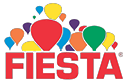
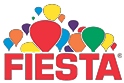
Balloon Fiesta Bot

Changed region(s): [[0.0242, 0.0247, 0.9919, 0.9877]]

diff --git a/public/bot/ticketspice_balloonfiesta_bot.html b/public/bot/ticketspice_balloonfiesta_bot.html
@@ -51,7 +51,7 @@
             el.setAttribute('url', 'bot-service.enegel.ai');
             el.setAttribute('org-id', 'webconnex');
             el.setAttribute('bot-id', 'eoceeblqz2');
-            el.setAttribute('logo-svg', '<?xml version="1.0"?><svg version="1.0" xmlns="http://www.w3.org/2000/svg" width="30" height="30" viewBox="0 0 125.000000 128.000000" preserveAspectRatio="xMidYMid meet"><g transform="translate(0.000000,128.000000) scale(0.100000,-0.100000)" fill="#0C6B67" stroke="none"><path d="M938 1233 c-9 -10 -20 -31 -23 -46 -7 -28 -7 -28 29 -22 24 5 36 3 36 -4 0 -6 -7 -11 -15 -11 -25 0 -63 -29 -86 -67 -12 -19 -36 -95 -54 -169 -64 -258 -158 -364 -326 -364 -33 0 -80 8 -107 18 -97 37 -207 130 -259 220 l-27 46 -12 -39 c-6 -22 -14 -60 -18 -85 -6 -45 -6 -46 31 -68 l38 -22 -39 0 c-31 0 -37 -3 -32 -16 3 -9 6 -22 6 -29 0 -20 59 -85 89 -98 26 -10 26 -11 4 -14 -27 -5 -28 -12 -10 -56 14 -33 87 -106 110 -109 6 0 -8 -4 -33 -7 l-45 -6 52 -33 c102 -65 143 -76 297 -78 l139 -1 18 -48 c10 -27 17 -50 16 -51 -2 -2 -14 -7 -27 -13 -21 -8 -14 -10 35 -9 53 0 57 1 33 11 -21 8 -29 21 -41 70 -15 58 -15 59 6 65 12 3 60 25 107 48 149 75 219 165 242 310 15 96 -1 215 -42 320 -37 91 -37 105 -4 141 20 22 24 23 19 8 -22 -60 -12 -101 22 -88 12 5 14 16 10 54 l-6 48 36 3 36 3 -27 33 c-17 20 -26 39 -22 49 8 19 -19 63 -39 63 -7 0 -21 7 -29 16 -9 8 -21 12 -27 8 -7 -4 -19 3 -28 15 -16 21 -18 21 -33 4z"/></g></svg>');
+            el.setAttribute('logo-url', 'https://www.enegel.ai/bot/balloonfiesta.png');
             document.body.appendChild(el);
         })();
     </script>
